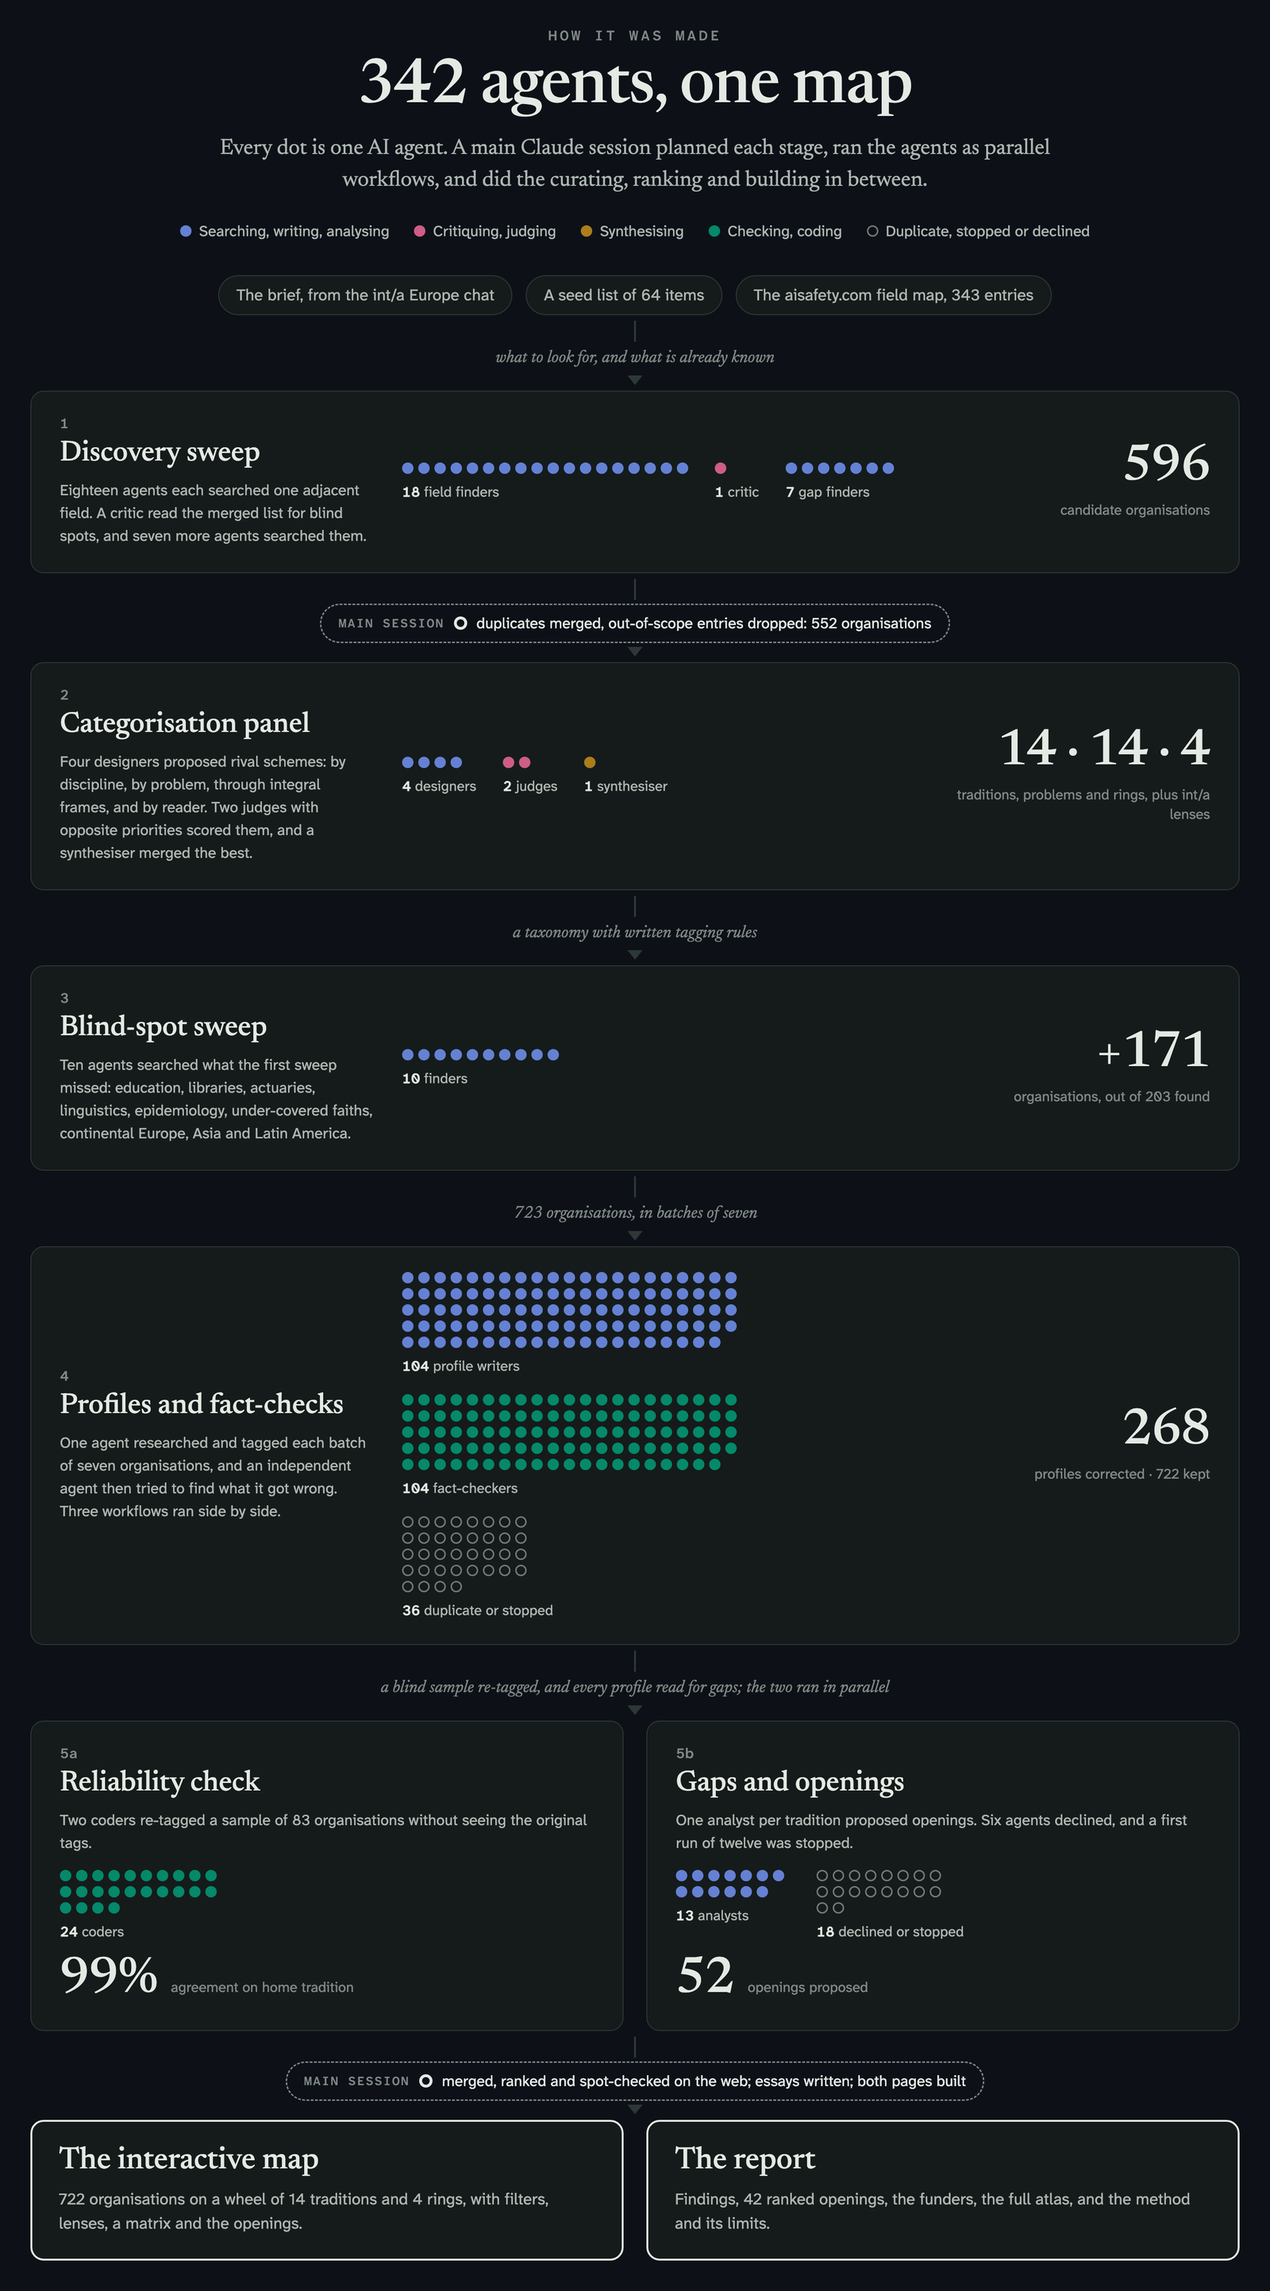
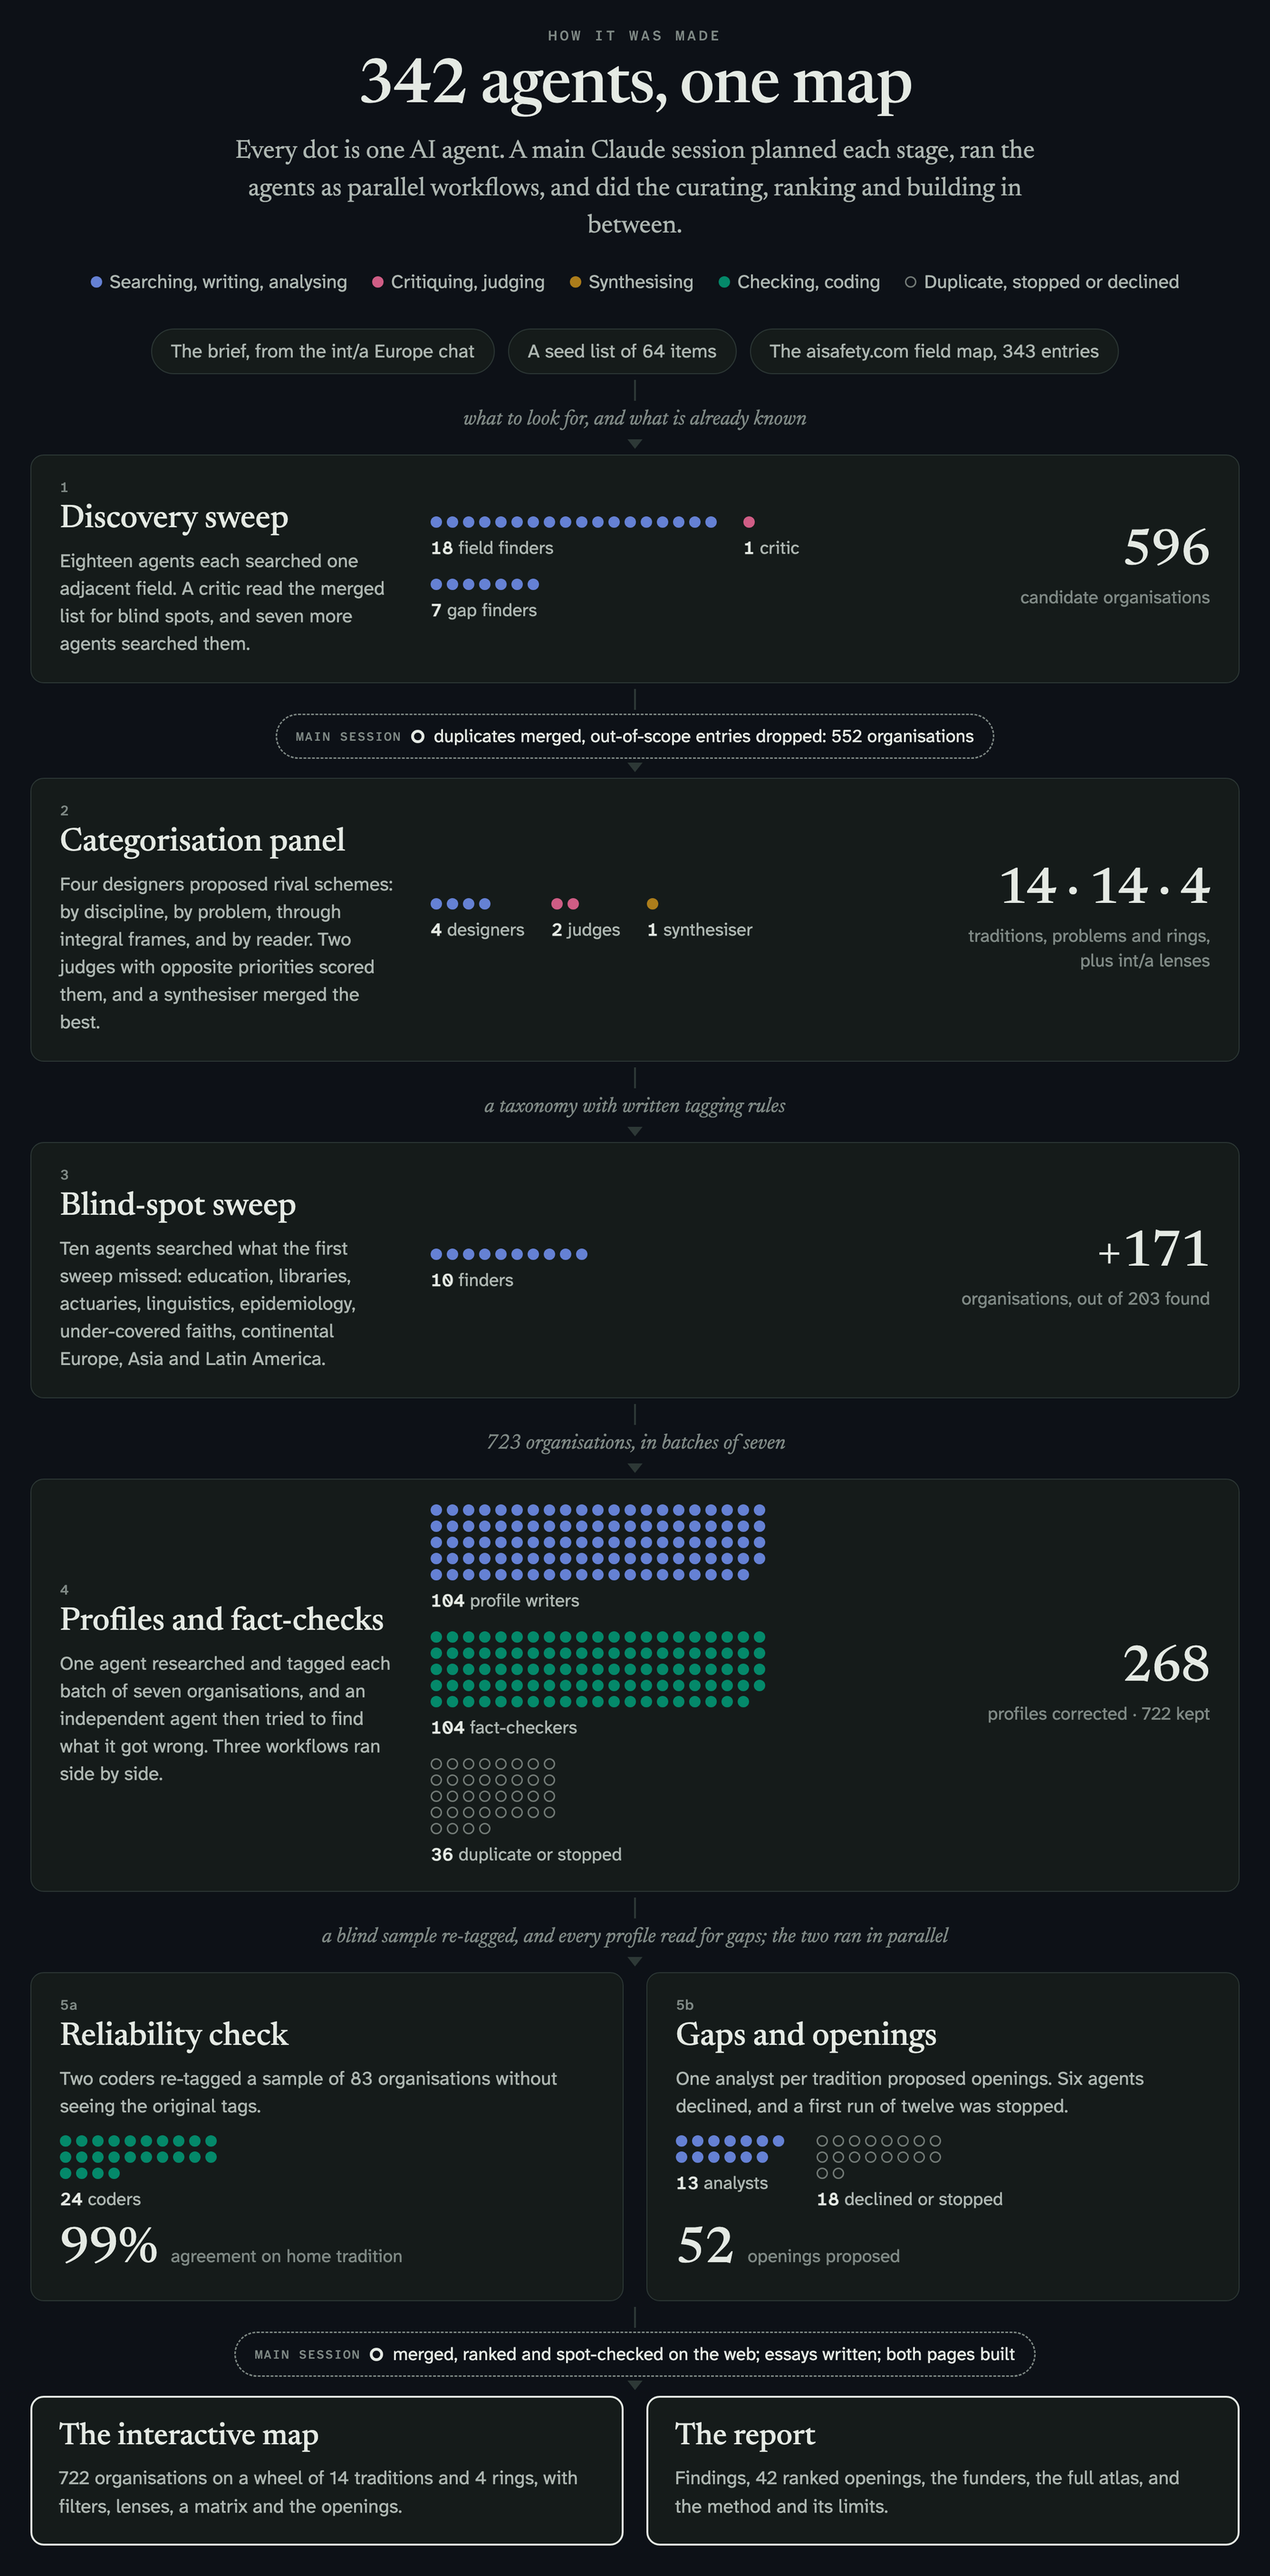
README: larger text in the agent pipeline infographic

diff --git a/src/media/make_media.py b/src/media/make_media.py
@@ -167,24 +167,24 @@ body{width:1400px;padding:56px 64px 64px}
 header{text-align:center;margin-bottom:36px}
 .eb{font:500 15px/1 "Atkinson Hyperlegible Mono",monospace;letter-spacing:.18em;text-transform:uppercase;color:var(--ink-3)}
 h1{font:500 64px/1.05 "Newsreader",serif;margin:14px 0;letter-spacing:-.01em}
-.lede{font:400 23px/1.45 "Newsreader",serif;color:var(--ink-2);max-width:880px;margin:0 auto 26px}
-.legend{display:flex;justify-content:center;flex-wrap:wrap;gap:12px 26px;font-size:16px;color:var(--ink-2)}
+.lede{font:400 27px/1.45 "Newsreader",serif;color:var(--ink-2);max-width:880px;margin:0 auto 26px}
+.legend{display:flex;justify-content:center;flex-wrap:wrap;gap:12px 26px;font-size:20px;color:var(--ink-2)}
 .legend span{display:inline-flex;align-items:center;gap:8px}
 i{display:inline-block;width:12px;height:12px;border-radius:50%;flex:none}
 i.a{background:var(--s1)}i.r{background:var(--s2)}i.s{background:var(--s3)}i.c{background:var(--s4)}i.x{border:1.6px solid var(--s0);background:transparent}
 .inputs{display:flex;justify-content:center;gap:14px}
-.inputs span{border:1px solid var(--line);background:var(--surface);border-radius:999px;padding:9px 18px;font-size:17px;color:var(--ink-2)}
-.stage{display:grid;grid-template-columns:330px 1fr 270px;gap:30px;align-items:center;background:var(--surface);border:1px solid var(--line);border-radius:14px;padding:26px 30px}
+.inputs span{border:1px solid var(--line);background:var(--surface);border-radius:999px;padding:10px 20px;font-size:20px;color:var(--ink-2)}
+.stage{display:grid;grid-template-columns:360px 1fr 270px;gap:30px;align-items:center;background:var(--surface);border:1px solid var(--line);border-radius:14px;padding:26px 30px}
 .meta .no{font:500 15px/1 "Atkinson Hyperlegible Mono",monospace;color:var(--ink-3);margin-bottom:8px}
-.meta h2{font:500 30px/1.1 "Newsreader",serif;margin:0 0 10px}
-.meta p{margin:0;font-size:16px;line-height:1.5;color:var(--ink-2)}
+.meta h2{font:500 34px/1.1 "Newsreader",serif;margin:0 0 10px}
+.meta p{margin:0;font-size:20px;line-height:1.45;color:var(--ink-2)}
 .swarm{display:flex;flex-wrap:wrap;gap:20px 28px;align-items:flex-start}
 .grp .dots{display:flex;flex-wrap:wrap;gap:5px;max-width:368px}
-.grp .gl{font-size:15px;color:var(--ink-2);margin-top:9px}
-.grp .gl b{font:600 15px "Atkinson Hyperlegible Mono",monospace;color:var(--ink)}
+.grp .gl{font-size:19px;color:var(--ink-2);margin-top:9px}
+.grp .gl b{font:600 19px "Atkinson Hyperlegible Mono",monospace;color:var(--ink)}
 .out{text-align:right}
 .out .big{white-space:nowrap;font:500 52px/1 "Newsreader",serif;letter-spacing:-.01em;font-variant-numeric:lining-nums}
-.out .ol{font-size:15px;line-height:1.35;color:var(--ink-3);margin-top:8px}
+.out .ol{font-size:19px;line-height:1.35;color:var(--ink-3);margin-top:8px}
 .pair{display:grid;grid-template-columns:1fr 1fr;gap:24px}
 .stage.half{grid-template-columns:1fr;gap:16px;align-items:start}
 .stage.half .out{text-align:left;display:flex;align-items:baseline;gap:14px}
@@ -192,14 +192,14 @@ i.a{background:var(--s1)}i.r{background:var(--s2)}i.s{background:var(--s3)}i.c{b
 .flow{display:flex;flex-direction:column;align-items:center;padding:6px 0}
 .flow .line{width:2px;height:22px;background:var(--line)}
 .flow .arrow{width:0;height:0;border-left:8px solid transparent;border-right:8px solid transparent;border-top:10px solid var(--line)}
-.flow .lbl{font:italic 400 18px/1.3 "Newsreader",serif;color:var(--ink-3);padding:6px 0}
-.flow .pill{display:inline-flex;align-items:center;gap:10px;border:1.5px dashed var(--ink-3);border-radius:999px;padding:9px 18px;font-size:16px;color:var(--ink);background:var(--bg);margin:4px 0}
+.flow .lbl{font:italic 400 22px/1.3 "Newsreader",serif;color:var(--ink-3);padding:6px 0}
+.flow .pill{display:inline-flex;align-items:center;gap:10px;border:1.5px dashed var(--ink-3);border-radius:999px;padding:10px 20px;font-size:19px;color:var(--ink);background:var(--bg);margin:4px 0}
 .flow .pill .ms{width:14px;height:14px;border-radius:50%;border:3px solid var(--ink);flex:none}
 .flow .pill::before{content:"Main session";font:500 13px "Atkinson Hyperlegible Mono",monospace;letter-spacing:.08em;text-transform:uppercase;color:var(--ink-3)}
 .outputs{display:grid;grid-template-columns:1fr 1fr;gap:24px}
 .outputs div{border:2px solid var(--ink);border-radius:14px;padding:24px 28px;background:var(--surface)}
 .outputs h3{font:500 32px/1.1 "Newsreader",serif;margin:0 0 10px}
-.outputs p{margin:0;font-size:17px;line-height:1.5;color:var(--ink-2)}"""
+.outputs p{margin:0;font-size:20px;line-height:1.5;color:var(--ink-2)}"""
 
 def pipeline(dark):
     body = ''.join([
